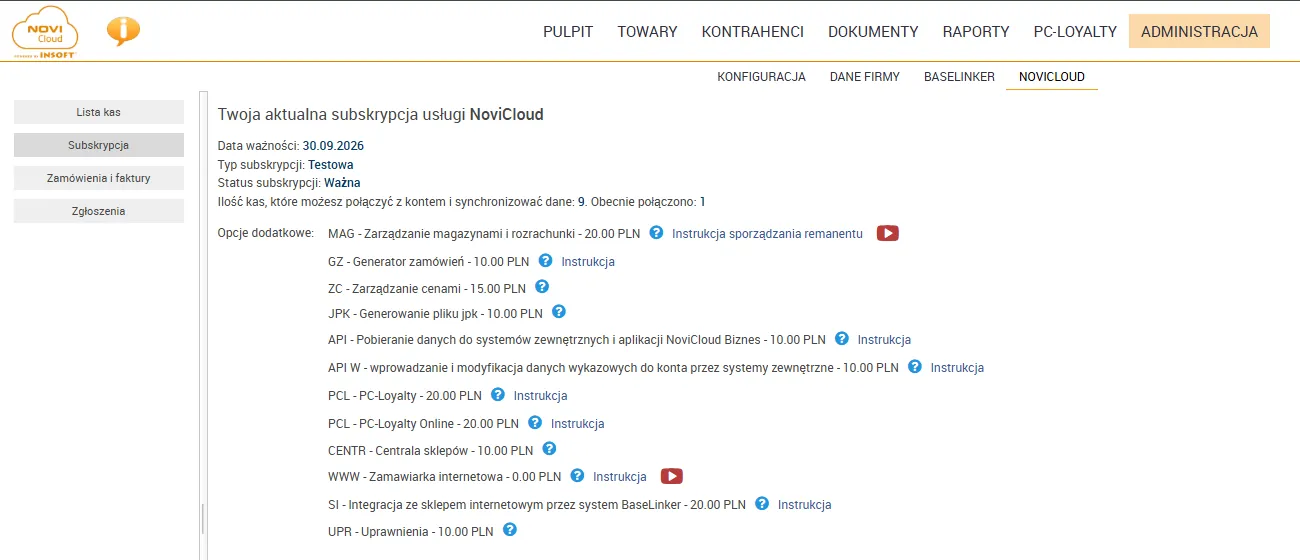
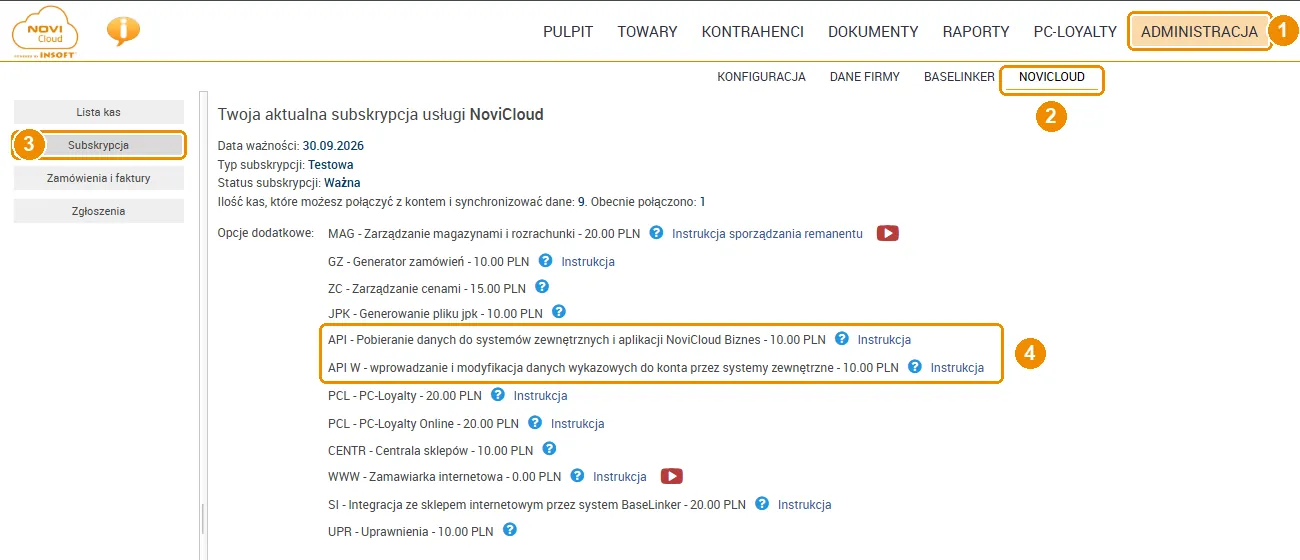
Instrukcja: numerowane odnośniki na zrzutach z panelu NoviCloud
Ramki wokół klikanych elementów i plakietki 1-4 w pomarańczu akcentu,
na obu zrzutach rozdziału 1 (Subskrypcja oraz Dane firmy → Baza danych).

diff --git a/instrukcja/index.html b/instrukcja/index.html
@@ -218,7 +218,7 @@ footer.stopka strong { color:var(--tekst); }
 <main class="tresc" id="tresc">
 <div class="wstep"><h2>Zanim zaczniesz</h2><p>Aplikacja jest dodatkiem do Twojego konta <strong>NoviCloud</strong>. Potrzebujesz włączonego modułu API i hasła API — to <strong>nie</strong> hasło, którym logujesz się do NoviCloud w przeglądarce. Jedno i drugie ustawiasz raz, w przeglądarce — prowadzi przez to <a href="#novicloud">rozdział 1</a>.</p><p>Nie ma tu osobnego serwera: dane pobierane są wprost z Twojego NoviCloud i zostają na telefonie. Dzięki temu raport dnia i dokumenty przeglądasz także bez internetu; raporty szczegółowe liczy NoviCloud, więc wymagają połączenia.</p><p>Edycja towarów wymaga subskrypcji „API W”, a karty lojalnościowe — modułu PC-Loyalty w NoviCloud.</p><p>Zrzuty pochodzą z <strong>konta demonstracyjnego</strong>, więc kwoty i nazwy towarów są przykładowe.</p></div>
 <section id="novicloud"><header><span class="etykieta">Rozdział 01</span><h2>Przygotowanie konta NoviCloud</h2><p>Jednorazowa czynność w przeglądarce, na komputerze — <strong>przed</strong> pierwszym uruchomieniem aplikacji. Aplikacja łączy się z Twoim NoviCloud przez API, więc potrzebuje dwóch rzeczy: <strong>włączonego modułu API</strong> i <strong>hasła API</strong>. Jedno i drugie ustawia się w NoviCloud, w zakładce <em>Administracja</em>. Jeśli nie masz do niej dostępu, poproś osobę zarządzającą Waszym kontem albo zadzwoń na helpdesk <strong>22 113 95 69</strong>.</p><a class="do-spisu" href="#spis">↑ Spis treści</a></header>
-<div class="krok szeroki"><img src="zrzuty/54-novicloud-subskrypcja.webp" alt="Zrzut z NoviCloud w przeglądarce: Krok 1: moduł API w subskrypcji" width="1300" height="560" loading="lazy"><div><span class="etykieta">Przeglądarka</span><h3>Krok 1: moduł API w subskrypcji</h3><ul><li>Droga: <em>Administracja → NoviCloud → Subskrypcja</em>.</li><li>Na liście <strong>Opcje dodatkowe</strong> poszukaj pozycji <strong>API — pobieranie danych do systemów zewnętrznych</strong>. To ten moduł, z którego korzysta aplikacja — bez niego logowanie kończy się komunikatem „konto nie ma aktywnej opcji REST API”.</li><li><strong>API W — wprowadzanie i modyfikacja danych</strong> to moduł osobny, potrzebny tylko wtedy, gdy chcesz z telefonu edytować towary i karty lojalnościowe. Do przeglądania raportów nie jest wymagany.</li><li>Nad listą modułów widać <strong>datę ważności</strong>, typ i status subskrypcji oraz liczbę kas, które możesz podłączyć — warto sprawdzić, czy konto nie wygasa w najbliższych dniach. Niżej na tej samej stronie są warunki automatycznego odnowienia.</li><li>Modułów nie włączysz samodzielnie: zamawia się je u opiekuna handlowego albo przez helpdesk.</li><li>Kwoty widoczne przy modułach pochodzą z konta demonstracyjnego i są tylko przykładem — <strong>obowiązujący cennik potwierdza opiekun handlowy</strong>.</li></ul></div></div>
+<div class="krok szeroki"><img src="zrzuty/54-novicloud-subskrypcja.webp" alt="Zrzut z NoviCloud w przeglądarce: Krok 1: moduł API w subskrypcji" width="1300" height="560" loading="lazy"><div><span class="etykieta">Przeglądarka</span><h3>Krok 1: moduł API w subskrypcji</h3><ul><li>Droga zaznaczona na zrzucie: <strong>1</strong> Administracja → <strong>2</strong> NoviCloud → <strong>3</strong> Subskrypcja.</li><li>W ramce <strong>4</strong> są dwa wiersze, które dotyczą aplikacji. <strong>API — pobieranie danych do systemów zewnętrznych</strong> musi być na liście, bo z niego korzysta aplikacja — bez niego logowanie kończy się komunikatem „konto nie ma aktywnej opcji REST API”.</li><li><strong>API W — wprowadzanie i modyfikacja danych</strong> to moduł osobny, potrzebny tylko wtedy, gdy chcesz z telefonu edytować towary i karty lojalnościowe. Do przeglądania raportów nie jest wymagany.</li><li>Nad listą modułów widać <strong>datę ważności</strong>, typ i status subskrypcji oraz liczbę kas, które możesz podłączyć — warto sprawdzić, czy konto nie wygasa w najbliższych dniach. Niżej na tej samej stronie są warunki automatycznego odnowienia.</li><li>Modułów nie włączysz samodzielnie: zamawia się je u opiekuna handlowego albo przez helpdesk.</li><li>Kwoty widoczne przy modułach pochodzą z konta demonstracyjnego i są tylko przykładem — <strong>obowiązujący cennik potwierdza opiekun handlowy</strong>.</li></ul></div></div>
 <div class="krok szeroki"><img src="zrzuty/55-novicloud-baza-danych.webp" alt="Zrzut z NoviCloud w przeglądarce: Krok 2: droga do hasła API" width="1308" height="730" loading="lazy"><div><span class="etykieta">Przeglądarka</span><h3>Krok 2: droga do hasła API</h3><ul><li>Cztery kroki zaznaczone na zrzucie: <strong>1</strong> Administracja → <strong>2</strong> Dane firmy → <strong>3</strong> Baza danych → <strong>4</strong> „Ustal hasło dostępu”.</li><li>Zapisz sobie wartość z pola <strong>Nazwa</strong> (na zrzucie <em>wtest</em>) — to ona jest loginem w aplikacji, a nie Twój adres e-mail.</li><li>Przycisk <strong>Ustal hasło dostępu</strong> jest niżej, w sekcji <em>API — pobieranie danych do systemów zewnętrznych</em>.</li><li>Czerwonych przycisków <em>Wyczyść bazę danych</em> i <em>Usuń konto i wszystkie moje dane</em> na tej stronie nie dotykaj — nie mają nic wspólnego z aplikacją i działają nieodwracalnie.</li></ul></div></div>
 <div class="krok szeroki"><img src="zrzuty/56-novicloud-haslo-api.webp" alt="Zrzut z NoviCloud w przeglądarce: Krok 3: ustawienie hasła API" width="618" height="373" loading="lazy"><div><span class="etykieta">Przeglądarka</span><h3>Krok 3: ustawienie hasła API</h3><ul><li>Wpisz nowe hasło dwa razy i naciśnij <strong>Zapisz</strong>. Znacznik <em>Pokaż jawnie znaki hasła</em> pozwala sprawdzić, czy nie ma literówki.</li><li>To hasło jest <strong>niezależne</strong> od hasła, którym logujesz się do NoviCloud w przeglądarce — służy wyłącznie aplikacjom, więc możesz je zmieniać bez wpływu na dostęp do panelu.</li><li>Zapisz je w bezpiecznym miejscu: nie jest później nigdzie pokazywane. Zgubione po prostu zastępujesz nowym w tym samym oknie.</li><li>Zmiana hasła unieważnia poprzednie — telefony połączone starym poproszą o zalogowanie na nowo.</li><li>Masz już komplet: <strong>nazwę bazy</strong> i <strong>hasło API</strong>. Dalej prowadzi rozdział 2.</li></ul></div></div>
 </section>
